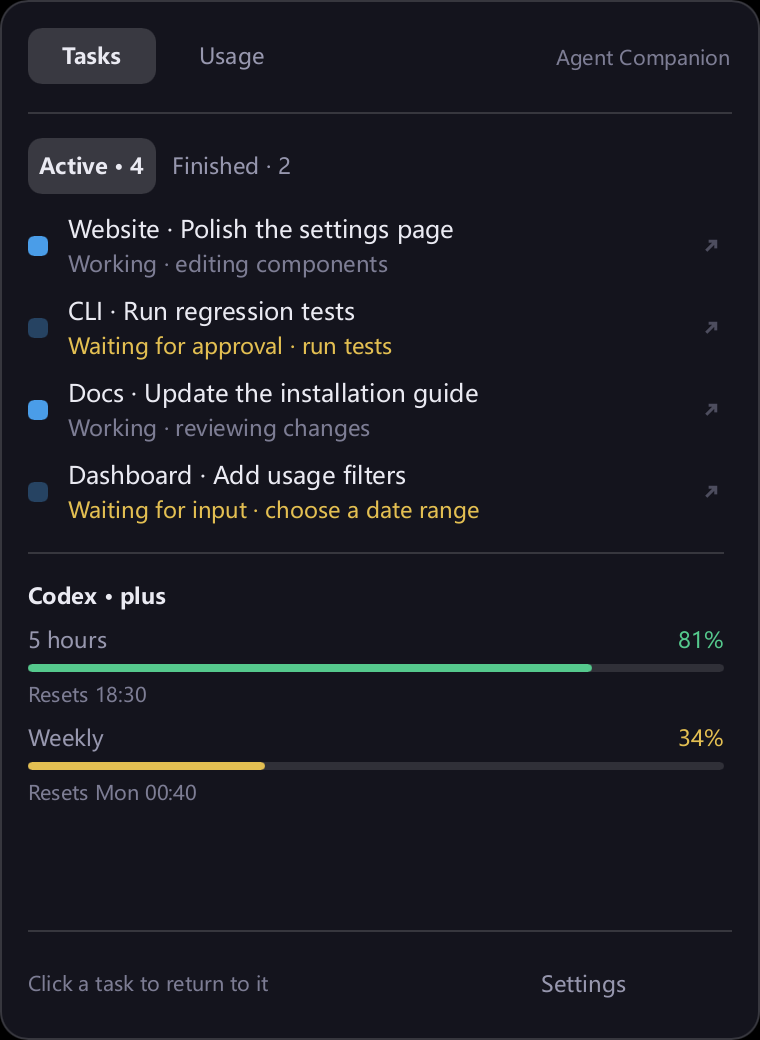
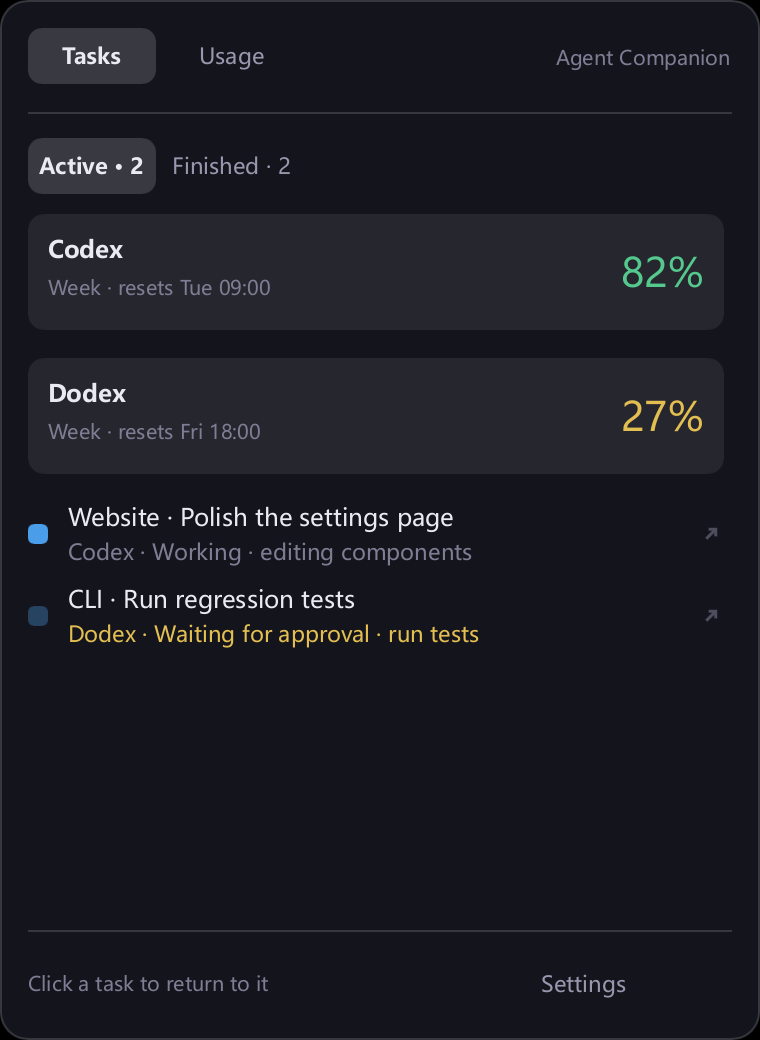
release: 准备 v0.3.15 Windows 双开版本
1. 更新版本、中英文使用说明及合成界面截图
2. 记录功能验证范围并增加 macOS 压缩包还原签名检查

diff --git a/scripts/package-macos.py b/scripts/package-macos.py
@@ -54,7 +54,7 @@ for name in ("README.md", "LICENSE", "THIRD_PARTY_NOTICES.md"):
     shutil.copy2(root / name, contents / "Resources" / name)
 screenshots = contents / "Resources" / "docs"
 screenshots.mkdir()
-for name in ("panel.png", "windows-usage.png", "codex-tui.png", "macos-notch.png", "macos-settings.png"):
+for name in ("panel.png", "windows-usage.png", "codex-tui.png", "windows-dual.png", "macos-notch.png", "macos-settings.png"):
     shutil.copy2(root / "docs" / name, screenshots / name)
 # Rust's linker signs the Mach-O executable ad hoc. Once it is placed in an
 # app bundle, seal Info.plist and Resources as well; otherwise codesign reports
@@ -64,6 +64,17 @@ subprocess.run(["codesign", "--force", "--sign", "-", "--timestamp=none", str(ap
 subprocess.run(["codesign", "--verify", "--strict", str(app)], check=True)
 archive = args.output / f"agent-companion-v{version}-macos-arm64.zip"
 subprocess.run(["ditto", "-c", "-k", "--sequesterRsrc", "--keepParent", str(app), str(archive)], check=True)
+# Verify the distributable after extraction, including the bundle's sealed
+# resources. This also runs on the macOS CI host when publishing from Windows.
+with tempfile.TemporaryDirectory(prefix="agent-companion-package-check-") as temporary:
+    subprocess.run(["ditto", "-x", "-k", str(archive), temporary], check=True)
+    restored = Path(temporary) / app.name
+    subprocess.run(["codesign", "--verify", "--strict", str(restored)], check=True)
+    reported = subprocess.check_output(
+        [str(restored / "Contents/MacOS/agent-companion"), "--version"], text=True
+    ).strip()
+    if reported != f"agent-companion {version}":
+        parser.error(f"packaged executable version mismatch: {reported}")
 digest = hashlib.sha256(archive.read_bytes()).hexdigest()
 (args.output / "SHA256SUMS-macos-arm64.txt").write_text(f"{digest}  {archive.name}\n")
 print(archive)

diff --git a/README.md b/README.md
@@ -11,11 +11,11 @@
 - **任务状态**：查看运行中、待处理和已结束的任务，点击返回对应对话或终端。
 - **Tasks / Usage**：切换任务与用量，查看剩余额度、重置时间、累计 Token 和最近七个有记录日期的用量柱状图。
 - **状态栏定制**：选择 Codex CLI 状态栏组件，实时预览并保存。
-- **Windows 集成**：任务完成通知、开机启动，以及可选的工具审批和提问卡片。
+- **Windows 集成**：任务栏分别显示 Codex（`C`）和 Dodex（`D`）的每周剩余额度；支持任务完成通知、开机启动，以及可选的工具审批和提问卡片。
 - **macOS 入口**：菜单栏显示有效的每周剩余额度：两份额度有效时上行 Codex、下行 Dodex，仅一份有效时只显示该实例，均无有效额度时显示默认图标；点击弹出任务／用量面板。Dock 图标可选，点击打开设置。菜单栏、Dock 和刘海可在设置中独立开关，默认仅显示菜单栏，已有选择保持不变。
-- **可选 Codex 双开（macOS）**：在设置中手动部署或接入 Dodex，任务标注来源，用量和 CLI 状态栏设置按实例管理。默认关闭，不自动接入或启动 Dodex。
+- **可选 Codex 双开（Windows / macOS）**：在设置中手动部署或接入 Dodex，任务标注来源，用量、缓存和 CLI 状态栏设置按实例管理。默认关闭，不自动接入或启动 Dodex。
 
-订阅用量复用 Codex CLI 的 ChatGPT 登录，无需 API Key。macOS Usage 查询结果按实例缓存 5 分钟，切换页面直接复用有效缓存；手动刷新可立即重新查询。
+订阅用量复用对应实例的 Codex CLI ChatGPT 登录，无需 API Key。两个平台的 Usage 查询结果均按实例缓存 5 分钟，从查询完成时计时；切换页面直接复用有效缓存，手动刷新可立即重新查询。已过重置时间的额度不会继续显示为有效值。
 
 ### 安装
 
@@ -31,6 +31,14 @@
 
 随后在 Codex 中用 `/hooks` 审阅并信任配置，再开启新会话。如需提问卡片及精确终端跳转，使用同目录的 `agent-companion-codex.exe` 启动 Codex。
 
+**Windows 双开**：右键任务栏读数或托盘图标 → **Settings… → Codex 双开 → 部署双开环境**。需要本机已安装且签名有效的官方 Microsoft Store Codex / ChatGPT 应用。部署完成后点击 **打开 Dodex**，自行登录第二个账号并完成 Windows 初始化。之后可直接右键任务栏读数或托盘图标，选择 **打开 Dodex**；也可在 Companion 解压目录运行：
+
+```powershell
+.\agent-companion.exe dodex
+```
+
+`dodex --check` 只检查官方运行程序；`dodex --deploy` 部署或校验环境，不打开窗口。独立环境位于 `%LOCALAPPDATA%\AgentCompanion\Dodex`。
+
 **macOS 14+ · Apple Silicon**
 
 1. 从[最新版本](https://github.com/WXGopher/agent-companion/releases/latest)下载以 `macos-arm64.zip` 结尾的压缩包。
@@ -38,9 +46,11 @@
 
 应用尚未经过 Apple 公证；首次打开若被拦截，可按 [Apple 官方说明](https://support.apple.com/102445)在“系统设置 → 隐私与安全性”中选择“仍要打开”。
 
-**双开**：设置 → Codex 双开 → 部署双开环境。需要本机已安装且签名有效的官方 Codex.app。新环境使用独立文件凭证存储，不复制原有凭证、历史或个人配置；完成后在应用程序中自行打开 Dodex 并登录。已有环境只有通过兼容性和隔离校验才会接入，冲突时停止且不覆盖。停用只关闭 Companion 对第二实例的监控，不退出 Dodex、不删除环境。暂不提供双开自动更新或卸载。
+**macOS 双开**：设置 → Codex 双开 → 部署双开环境。需要本机已安装且签名有效的官方 Codex.app。完成后在“应用程序”中打开 Dodex 并登录。
 
-即使隐藏所有入口，重新打开 Agent Companion 仍会进入设置。
+macOS 即使隐藏所有入口，重新打开 Agent Companion 仍会进入设置。
+
+**双开隔离与停用**：两个平台的新环境均使用独立文件凭证、历史、数据库和个人配置，不复制原实例的账号数据。已有环境只有通过兼容性和隔离校验才会接入，冲突时停止且不覆盖。停用只关闭 Companion 对第二实例的监控，不退出 Dodex、不删除环境。暂不提供双开运行程序的自动更新或卸载。
 
 **升级**：先退出旧程序，再替换解压后的文件；已安装 Windows hooks 的用户需重新执行安装命令。已有配置会保留。
 
@@ -53,11 +63,11 @@ See Codex tasks and subscription usage in the Windows taskbar or macOS menu bar.
 - **Tasks**: track running, waiting and finished tasks, then jump back to the conversation or terminal.
 - **Tasks / Usage**: switch to remaining quota, reset times, lifetime tokens and a bar chart of the last seven reported days.
 - **Status bar editor**: choose Codex CLI components with a live preview.
-- **Windows integration**: completion notifications, startup settings, and optional tool approvals and question cards.
+- **Windows integration**: separate taskbar readings for Codex (`C`) and Dodex (`D`) weekly quota remaining, completion notifications, startup settings, and optional tool approvals and question cards.
 - **macOS entry points**: the menu bar shows valid weekly quota readings, with Codex above Dodex when both are available, a single row when only one is available, and the default icon otherwise; click it for tasks and usage. The optional Dock icon opens Settings. Configure menu bar, Dock and notch visibility independently in Settings. Only the menu bar is on by default; saved choices are preserved.
-- **Optional second Codex instance (macOS)**: explicitly deploy or connect Dodex in Settings. Tasks show their source; usage and CLI status bar settings stay separate. Disabled by default, with no automatic adoption or launch.
+- **Optional second Codex instance (Windows / macOS)**: explicitly deploy or connect Dodex in Settings. Tasks show their source; usage, caches and CLI status bar settings stay separate. Disabled by default, with no automatic adoption or launch.
 
-Subscription usage uses your existing Codex CLI ChatGPT login. No API key is needed. On macOS, Usage results are cached separately for each instance for five minutes; switching pages reuses a fresh result, while manual refresh reads again.
+Subscription usage uses each instance's Codex CLI ChatGPT login. No API key is needed. Both platforms cache Usage results separately for five minutes from completion; switching pages reuses a fresh result, while manual refresh reads again. Quota readings past their reset time are no longer treated as valid.
 
 ### Install
 
@@ -73,6 +83,14 @@ Subscription usage uses your existing Codex CLI ChatGPT login. No API key is nee
 
 Use `/hooks` in Codex to review and trust the configuration, then start a new session. For question cards and precise terminal navigation, launch Codex through `agent-companion-codex.exe` in the same folder.
 
+**Windows second instance**: right-click the taskbar readout or tray icon → **Settings… → Codex 双开 → 部署双开环境**. Requires the locally installed, validly signed official Microsoft Store Codex / ChatGPT app. After deployment, click **打开 Dodex**, sign in with a second account and complete Windows setup. For later launches, right-click either the taskbar readout or tray icon and choose **打开 Dodex**, or run this from the Companion folder:
+
+```powershell
+.\agent-companion.exe dodex
+```
+
+`dodex --check` only checks the official runtime; `dodex --deploy` deploys or validates without opening a window. The isolated environment lives under `%LOCALAPPDATA%\AgentCompanion\Dodex`.
+
 **macOS 14+ · Apple Silicon**
 
 1. Download the archive ending in `macos-arm64.zip` from the [latest release](https://github.com/WXGopher/agent-companion/releases/latest).
@@ -80,9 +98,11 @@ Use `/hooks` in Codex to review and trust the configuration, then start a new se
 
 The app is not Apple-notarized. If the first launch is blocked, follow [Apple's instructions](https://support.apple.com/102445) to choose **Open Anyway** in System Settings → Privacy & Security.
 
-**Second instance**: Settings → Codex 双开 → 部署双开环境. Requires a locally installed, validly signed official Codex.app. A fresh environment uses separate file credentials and copies no credentials, history or personal settings. After deployment, open Dodex from Applications and sign in yourself. Existing environments are adopted only after compatibility and isolation checks; conflicts stop without overwriting. Disabling integration stops Companion monitoring the second instance without quitting Dodex or deleting its environment. Automatic runtime updates and uninstall are not included.
+**macOS second instance**: Settings → Codex 双开 → 部署双开环境. Requires a locally installed, validly signed official Codex.app. After deployment, open Dodex from Applications and sign in.
 
-Reopening Agent Companion opens Settings even if all entry points are hidden.
+On macOS, reopening Agent Companion opens Settings even if all entry points are hidden.
+
+**Isolation and disabling**: on both platforms, a fresh environment has separate file credentials, history, databases and personal settings, without copying account data from the original instance. Existing environments are adopted only after compatibility and isolation checks; conflicts stop without overwriting. Disabling integration stops Companion monitoring the second instance without quitting Dodex or deleting its environment. Automatic runtime updates and uninstall are not included.
 
 **Upgrade**: quit the old app and replace its files. If you installed Windows hooks, rerun the installation command. Existing settings are retained.
 
@@ -101,6 +121,8 @@ Reopening Agent Companion opens Settings even if all entry points are hidden.
 <summary>设置 / Settings</summary>
 
 <p align="center"><img src="docs/codex-tui.png" width="760" alt="Windows 分区设置与状态栏预览 / Settings and status bar preview"></p>
+
+<p align="center"><img src="docs/windows-dual.png" width="760" alt="Windows Dodex 部署与启动 / Dodex deployment and launch"></p>
 
 </details>
 

diff --git a/docs/releases/v0.3.15.md b/docs/releases/v0.3.15.md
@@ -1,0 +1,25 @@
+# Agent Companion v0.3.15
+
+- Windows 新增可选 Dodex 双开：在设置中部署、校验并打开独立的第二实例，分别管理登录、历史、任务、用量和 CLI 状态栏配置。
+- Windows 任务栏分别显示 Codex（`C`）与 Dodex（`D`）的每周剩余额度；详情面板提供实例选择和周额度卡片。
+- 托盘和任务栏右键菜单均可一键打开 Dodex；Tasks 页只保留实例额度卡片，移除重复的 Codex 额度条。
+- Windows Usage 按实例缓存五分钟，从查询完成时计时。手动刷新立即重新查询；过期或已跨过重置时间的账号额度不会覆盖有效的新读数。
+- 修复 Windows 首次初始化中辅助程序目录归属导致的 `helper_failed`；提前创建当前用户所有的目录，保留已有辅助程序。
+- 更新中英文安装、双开启动及隔离说明，并增加使用合成数据的 Windows 双开设置截图。
+
+Windows 双开需要已安装且签名有效的官方 Microsoft Store Codex / ChatGPT 应用，默认关闭。新实例不复制原账号凭证或个人配置；首次使用需自行登录并完成 Windows 初始化。运行程序的自动更新和卸载暂不支持。
+
+验证：Windows 部署、双账号用量读取、沙箱就绪状态和本地命令执行已通过；自动测试覆盖部署边界、缓存隔离、配置草稿及 100% / 150% / 200% 界面缩放。Dodex 真实桌面会话跳转尚未完成实机验收。macOS 仍需 macOS 14+ 和 Apple Silicon，安装包使用 ad-hoc 完整性签名，未做 Apple 公证。
+
+## English
+
+- Optional Dodex support on Windows: deploy, validate and open an isolated second instance from Settings, with separate login, history, tasks, usage and CLI status bar configuration.
+- The Windows taskbar shows separate weekly quota readings for Codex (`C`) and Dodex (`D`). The details panel adds instance selection and weekly quota cards.
+- Both tray and taskbar context menus open Dodex directly. The Tasks page keeps the instance quota cards and removes duplicate Codex quota bars.
+- Windows Usage caches each instance for five minutes from completion. Manual refresh reads immediately; stale or reset account readings do not mask valid new quota data.
+- Fix Windows first-run `helper_failed` caused by sandbox helper directory ownership. Prepare the directory as the current user before elevated setup, preserving existing helpers.
+- Update bilingual installation, launch and isolation guidance, with a synthetic Windows second-instance settings screenshot.
+
+Windows second-instance support requires the installed, validly signed official Microsoft Store Codex / ChatGPT app and is disabled by default. It copies no original account credentials or personal settings. Sign in and complete Windows setup on first use. Automatic runtime updates and uninstall are not included.
+
+Validation: Windows deployment, separate account usage reads, sandbox readiness and local command execution passed. Automated coverage includes deployment boundaries, cache isolation, configuration drafts and 100% / 150% / 200% UI scaling. Real Dodex desktop thread navigation has not yet been manually verified. macOS still requires macOS 14+ and Apple Silicon; its bundle uses an ad-hoc integrity signature without Apple notarization.

diff --git a/docs/KNOWN_ISSUES.md b/docs/KNOWN_ISSUES.md
@@ -18,7 +18,8 @@
 | M12 | Codex 桌面原生回复 | 尚无已验证的公开附接通道；可观测的阻塞提问显示等待并跳回 Codex 作答，异步提问不误判为阻塞。Agent Companion 不向桌面数据库写入答案 |
 | M13 | macOS CLI 精确跳转 | Terminal/iTerm2 按存活 Codex 进程的 tty 选择标签页，兼容 iTerm2 的独立会话服务，需要 Automation 授权；tmux、SSH、WSL、IDE 和其他终端不保证精确分屏。找不到原终端时提供复制恢复命令 |
 | M14 | macOS 原生 GUI 验收 | v0.3.0 已验证真实窗口的同宽展开、列表滚动、快捷键切换、Esc、设置保存与关闭、退出和缺失终端提示。v0.3.7 已在内置屏检查摄像头两侧单行、完整额度、同宽展开与 Esc；v0.3.2 标题栏不透明修复已获用户确认。悬停、连续动画、主屏尺寸、长内容、刷新定时器、Dock 偏好和设置渲染有自动检查。物理显示器切换、全屏、真实鼠标悬停不抢焦点、新设置完整鼠标／键盘操作及 Terminal.app 跳转尚未手工覆盖。iTerm2 跳转已返回 tty 匹配成功，但桌面工具禁止读取该终端窗口；详见 [验证记录](MACOS_NOTCH.md) |
+| M15 | Windows 双开验收 | v0.3.15 已验证独立部署、双账号用量读取、Windows 初始化和两个环境的本地命令执行；缓存隔离、实例选择、配置草稿及不同缩放比例有自动测试。Dodex 真实桌面会话跳转尚未完成实机验收。双开运行程序暂不自动更新或卸载 |
 
 旧路线图中的刷新参数已经过时：点击详情不会触发额度请求；Claude 额度缓存为 60 秒，缺少凭据时等待 600 秒再尝试。参数本身不作为功能里程碑。
 
-Codex 额度按各会话最后一条有效额度事件的时间选择：Windows 每 30 秒后台刷新，macOS 菜单栏每 2 分钟刷新本地记录；未更新日志文件修改时间或会话暂时没有活动时，仍会按间隔重新读取。数据以 Codex 已写入本地日志的记录为准。macOS Usage 页的联网统计保留五分钟缓存与刷新间隔。
+Codex 额度按各会话最后一条有效额度事件的时间选择：Windows 每 30 秒后台刷新，macOS 菜单栏每 2 分钟刷新本地记录；未更新日志文件修改时间或会话暂时没有活动时，仍会按间隔重新读取。数据以 Codex 已写入本地日志的记录为准。两个平台的 Usage 页联网统计均按实例保留五分钟缓存与刷新间隔。
